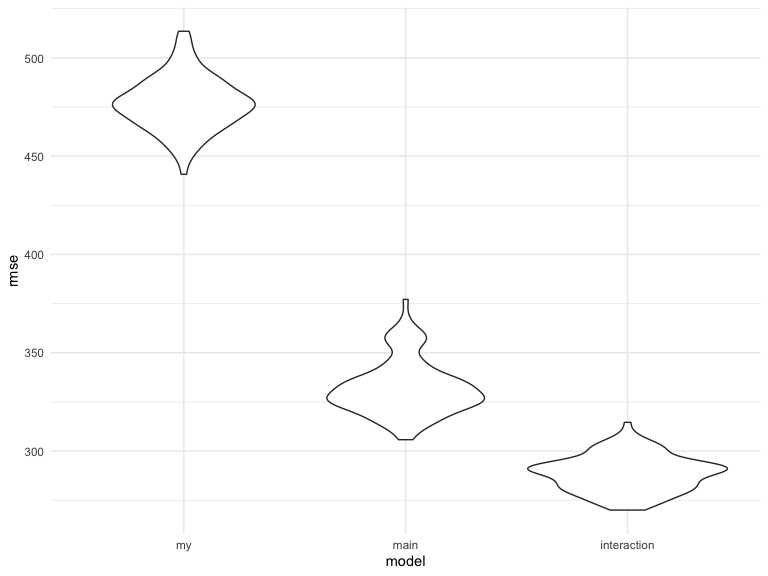
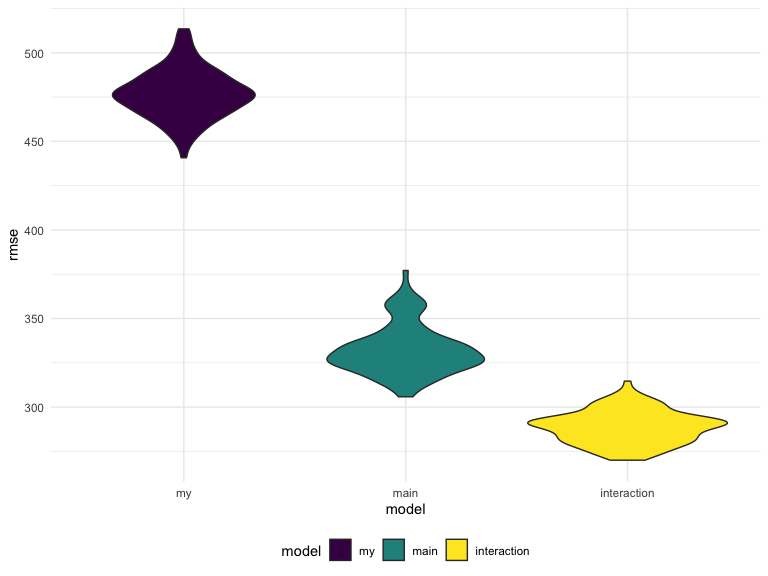
added fill to violin plot in problem 1 and added code to load data for problem 2; also added initial code for bootstrapping

diff --git a/p8105_hw6_lk2761.md b/p8105_hw6_lk2761.md
@@ -133,10 +133,138 @@ cv_df %>%
     values_to = "rmse",
     names_prefix = "rmse_") %>% 
   mutate(model = fct_inorder(model)) %>% 
-  ggplot(aes(x = model, y = rmse)) + geom_violin()
+  ggplot(aes(x = model, y = rmse, fill = model)) + 
+  geom_violin()
 ```
 
 <img src="p8105_hw6_lk2761_files/figure-gfm/unnamed-chunk-8-1.png" width="90%" />
 
 Based on the plot that is generated, I would select the model with the
 interaction terms as it has the lowest RMSE of the three models.
+
+## Problem 2
+
+This loads and tidies the weather data for Central Park, NY.
+
+``` r
+weather_df = 
+  rnoaa::meteo_pull_monitors(
+    c("USW00094728"),
+    var = c("PRCP", "TMIN", "TMAX"), 
+    date_min = "2017-01-01",
+    date_max = "2017-12-31") %>%
+  mutate(
+    name = recode(id, USW00094728 = "CentralPark_NY"),
+    tmin = tmin / 10,
+    tmax = tmax / 10) %>%
+  select(name, id, everything())
+```
+
+This draws one bootstrap sample.
+
+``` r
+boot_sample = function(df) {
+  sample_frac(df, replace = TRUE)
+}
+```
+
+``` r
+boot_sample(weather_df) %>% 
+  ggplot(aes(x = tmin, y = tmax)) + 
+  geom_point(alpha = .5) +
+  stat_smooth(method = "lm")
+```
+
+<img src="p8105_hw6_lk2761_files/figure-gfm/unnamed-chunk-11-1.png" width="90%" />
+
+Now we will draw 5000 bootstrap samples.
+
+``` r
+boot_straps = 
+  data_frame(
+    strap_number = 1:5000,
+    strap_sample = rerun(5000, boot_sample(weather_df))
+  )
+```
+
+Checking if bootstrapping is working
+
+``` r
+boot_straps %>% 
+  filter(strap_number %in% 1:2) %>% 
+  mutate(strap_sample = map(strap_sample, ~arrange(.x, tmin))) %>% 
+  pull(strap_sample)
+```
+
+    ## [[1]]
+    ## # A tibble: 365 x 6
+    ##    name           id          date        prcp  tmax  tmin
+    ##    <chr>          <chr>       <date>     <dbl> <dbl> <dbl>
+    ##  1 CentralPark_NY USW00094728 2017-12-31     0  -6   -12.7
+    ##  2 CentralPark_NY USW00094728 2017-12-29     0  -5.5 -11.6
+    ##  3 CentralPark_NY USW00094728 2017-12-29     0  -5.5 -11.6
+    ##  4 CentralPark_NY USW00094728 2017-12-29     0  -5.5 -11.6
+    ##  5 CentralPark_NY USW00094728 2017-01-09     0  -4.9  -9.9
+    ##  6 CentralPark_NY USW00094728 2017-03-05     0   2.8  -9.9
+    ##  7 CentralPark_NY USW00094728 2017-01-08     0  -3.8  -8.8
+    ##  8 CentralPark_NY USW00094728 2017-03-04     0  -1    -8.2
+    ##  9 CentralPark_NY USW00094728 2017-03-04     0  -1    -8.2
+    ## 10 CentralPark_NY USW00094728 2017-12-30    13  -4.9  -8.2
+    ## # … with 355 more rows
+    ## 
+    ## [[2]]
+    ## # A tibble: 365 x 6
+    ##    name           id          date        prcp  tmax  tmin
+    ##    <chr>          <chr>       <date>     <dbl> <dbl> <dbl>
+    ##  1 CentralPark_NY USW00094728 2017-12-28     0  -7.7 -11.6
+    ##  2 CentralPark_NY USW00094728 2017-03-05     0   2.8  -9.9
+    ##  3 CentralPark_NY USW00094728 2017-03-05     0   2.8  -9.9
+    ##  4 CentralPark_NY USW00094728 2017-01-08     0  -3.8  -8.8
+    ##  5 CentralPark_NY USW00094728 2017-12-30    13  -4.9  -8.2
+    ##  6 CentralPark_NY USW00094728 2017-03-11     0  -1.6  -8.2
+    ##  7 CentralPark_NY USW00094728 2017-03-04     0  -1    -8.2
+    ##  8 CentralPark_NY USW00094728 2017-03-04     0  -1    -8.2
+    ##  9 CentralPark_NY USW00094728 2017-02-10     0   0    -7.1
+    ## 10 CentralPark_NY USW00094728 2017-12-15    28  -2.1  -6.6
+    ## # … with 355 more rows
+
+``` r
+fit_2 = lm(tmax ~ tmin, data = weather_df)
+```
+
+``` r
+fit_2 %>%
+  broom::glance()
+```
+
+    ## # A tibble: 1 x 11
+    ##   r.squared adj.r.squared sigma statistic   p.value    df logLik   AIC
+    ##       <dbl>         <dbl> <dbl>     <dbl>     <dbl> <int>  <dbl> <dbl>
+    ## 1     0.912         0.911  2.94     3741. 2.98e-193     2  -910. 1827.
+    ## # … with 3 more variables: BIC <dbl>, deviance <dbl>, df.residual <int>
+
+``` r
+weather_df %>% 
+  modelr::bootstrap(n = 5000) %>% 
+  mutate(
+    models = map(strap, ~lm(tmax ~ tmin, data = .x) ),
+    results = map(models, broom::glance)) %>% 
+  select(-strap, -models) %>% 
+  unnest(results) 
+```
+
+    ## # A tibble: 5,000 x 12
+    ##    .id   r.squared adj.r.squared sigma statistic   p.value    df logLik
+    ##    <chr>     <dbl>         <dbl> <dbl>     <dbl>     <dbl> <int>  <dbl>
+    ##  1 0001      0.907         0.906  3.05     3522. 6.24e-189     2  -924.
+    ##  2 0002      0.912         0.912  2.95     3771. 7.71e-194     2  -912.
+    ##  3 0003      0.915         0.915  2.94     3906. 2.34e-196     2  -911.
+    ##  4 0004      0.906         0.905  2.94     3479. 4.62e-188     2  -911.
+    ##  5 0005      0.906         0.905  3.09     3482. 4.05e-188     2  -928.
+    ##  6 0006      0.912         0.912  2.96     3777. 6.01e-194     2  -912.
+    ##  7 0007      0.919         0.919  2.82     4118. 3.43e-200     2  -896.
+    ##  8 0008      0.907         0.907  2.91     3542. 2.39e-189     2  -907.
+    ##  9 0009      0.913         0.913  2.91     3822. 8.29e-195     2  -906.
+    ## 10 0010      0.895         0.895  3.14     3097. 8.48e-180     2  -934.
+    ## # … with 4,990 more rows, and 4 more variables: AIC <dbl>, BIC <dbl>,
+    ## #   deviance <dbl>, df.residual <int>
